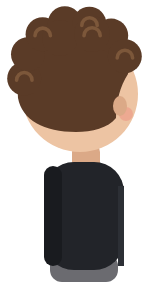
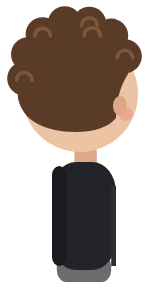
Yarosh a bit skinnier: a slim option for looks (narrower body, arms and legs; same head)
Claude-Session: https://claude.ai/code/session_01BrGLWcTLbFgPLYzVmKCwDF

diff --git a/src/people.py b/src/people.py
@@ -446,10 +446,14 @@ def camo_defs(pfx, c):
 
 class Look:
     def __init__(s, id, *, skin, skin2, hair, hl=None, style, shirt, shirt2, sleeve, pants, pants2,
-                 shoe, shoe2, height=1.0, camo=None, trim='#FFFFFF', top='tee', stripe=None, glasses=None, mustache=None, plaid=None, beard=None, belt=None, under=None, head=None, shorts=False, socks=None, watch=None):
+                 shoe, shoe2, height=1.0, camo=None, trim='#FFFFFF', top='tee', stripe=None, glasses=None, mustache=None, plaid=None, beard=None, belt=None, under=None, head=None, shorts=False, socks=None, watch=None, slim=1.0):
         s.__dict__.update(locals()); del s.__dict__['s']
         s.hl = hl or hair
         if plaid: s.shirt = s.sleeve = 'url(#eplaid2)'   # (a plaid flannel: the pattern is in defs; the game export's prefix is 'e')
+        if slim != 1.0:   # a narrower body, arms and legs (the head stays as it is): Yarosh, tall and skinny
+            for name in ('torso', 'torso_q', 'arm_art', 'leg_art'):
+                fn = getattr(s, name); setattr(s, name, (lambda f: lambda *a: s.thin(f(*a)))(fn))
+    def thin(s, svg): return f'<g transform="scale({s.slim},1)">{svg}</g>'
 
     # -- torso, front and back views (replaces the flannel)
     def torso(s, back, pfx):
@@ -516,7 +520,7 @@ class Look:
                       f'<rect x="15" y="-48" width="3" height="48" fill="{s.trim}"/>')
         else:
             shirt += f'<rect x="-19" y="-40" width="3" height="40" fill="{s.trim}"/>'
-        return (behind_of(s, 'side') + shirt +
+        return (behind_of(s, 'side') + (s.thin(shirt) if s.slim != 1.0 else shirt) +
             s.skull(4) + f'<circle cx="31" cy="-81" r="4" fill="{rig.SK}"/>' + hair +
             f'<circle{f} cx="17" cy="-85" r="3.6" fill="{rig.EYE}"/>'
             f'<path{f} d="M10,-71 Q18,-64 27,-71" fill="none" stroke="{rig.MOUTH}" stroke-width="2.8" stroke-linecap="round"/>'
@@ -708,10 +712,10 @@ LOOKS = {
                      shirt='#C7443B', shirt2='#A93830', sleeve='#C7443B', trim='#F4F6F8',
                      pants='#34466B', pants2='#2A3957', shoe='#2F343C', shoe2='#272B32', height=1.24),
     # Nico's friends (2026-10-11), drawn from photos the user shared (reference only)
-    # Yarosh: older and very tall (the user: "Yarosh should be very tall"); a big mop of curly brown hair, a black tee, grey shorts, white socks, black sneakers, a black watch
+    # Yarosh: older, very tall and skinny (the user: "Yarosh should be very tall", "a bit skinnier"); a big mop of curly brown hair, a black tee, grey shorts, white socks, black sneakers, a black watch
     'yarosh': Look('yarosh', skin='#EDC4A3', skin2='#DBA987', hair='#5A3B27', hl='#7C573A', style='tousle', top='tee',
                    shirt='#222429', shirt2='#191B1F', sleeve='#222429', trim='#2C2F35', pants='#6B6B70', pants2='#5C5C61',
-                   shoe='#1F2125', shoe2='#18191C', height=1.42, shorts=True, socks='#F4F6F8', watch='#1A1B1E'),
+                   shoe='#1F2125', shoe2='#18191C', height=1.42, slim=0.8, shorts=True, socks='#F4F6F8', watch='#1A1B1E'),
     # Alpha: younger and smaller; a thick dark mop with heavy bangs, a white tee, black sweatpants, black sneakers
     'alpha': Look('alpha', skin='#EAC09E', skin2='#D8A884', hair='#2C1F19', hl='#463229', style='mop', top='tee',
                   shirt='#F7F7F4', shirt2='#E3E3DE', sleeve='#F7F7F4', trim='#ECECE8', pants='#232428', pants2='#1B1C20',

diff --git a/docs/CHANGES.md b/docs/CHANGES.md
@@ -1098,3 +1098,8 @@ The user: "Yarosh should be very tall. The potato shop should have a potato peel
 - **Tests:**
   - New: `test/arcade.test.ts` and `test/peel.test.ts`.
   - The e2e peels two potatoes with the mouse and gets paid. It also fires in Space Blasters, launches in Brick Breaker, hops in Frog Hop, and reads the full high-score board.
+
+## Yarosh a bit skinnier (2026-10-11)
+- The user: "Yarosh can be a bit skinnier".
+- New `Look(slim=…)` option: it narrows the torso, sleeves, arms and legs (a horizontal scale on each part) and leaves the head alone. Yarosh uses `slim=0.8`.
+- The rig's shoulder and hip spacing don't change, so the arms still meet the shoulders.
